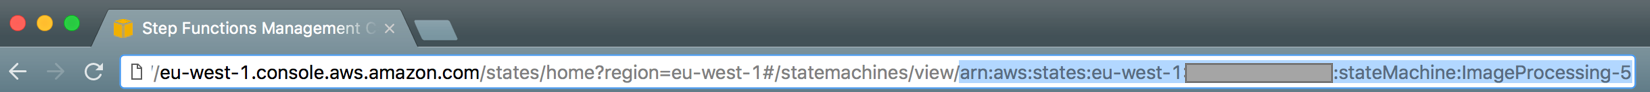
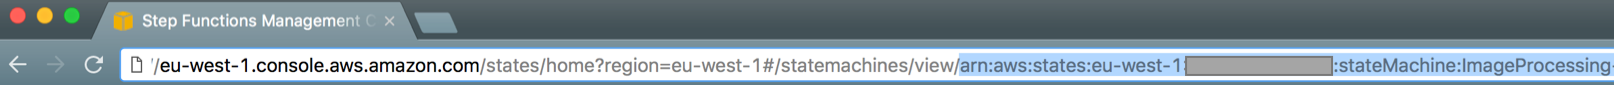
fix arn now there's only 1

Changed region(s): [[0.0, 0.5412, 1.0, 0.9647], [0.0, 0.0235, 1.0, 0.5176], [0.0, 0.4471, 0.062, 0.5176]]

diff --git a/Workshop/step-5.md b/Workshop/step-5.md
@@ -17,10 +17,10 @@ The first step requires some extra configuration as it needs CloudTrail to be en
 
 1. Go to [AWS Step Functions management console](http://console.aws.amazon.com/states/home). Make sure the AWS Region selection matches the one you have been working with so far.
 
-1. On the Dashboard locate the last version of your state machine. If you followed instructions on prior steps it should be *ImageProcessing-5*
+1. On the Dashboard locate your state machine. If you followed instructions on prior steps it should be *ImageProcessing*
 
 1. Click on the state machine to go to the detail page. You can locate the ARN (Amazon Resource Name) of the state machine at the end of the URL that should look like:
-	`arn:aws:states:<AWS_REGION>:<AWS_ACCOUNT_ID>:stateMachine:ImageProcessing-5`
+	`arn:aws:states:<AWS_REGION>:<AWS_ACCOUNT_ID>:stateMachine:ImageProcessing`
 
 	<img src="images/5a-state-machine-arn-new.png" width="90%">
 
